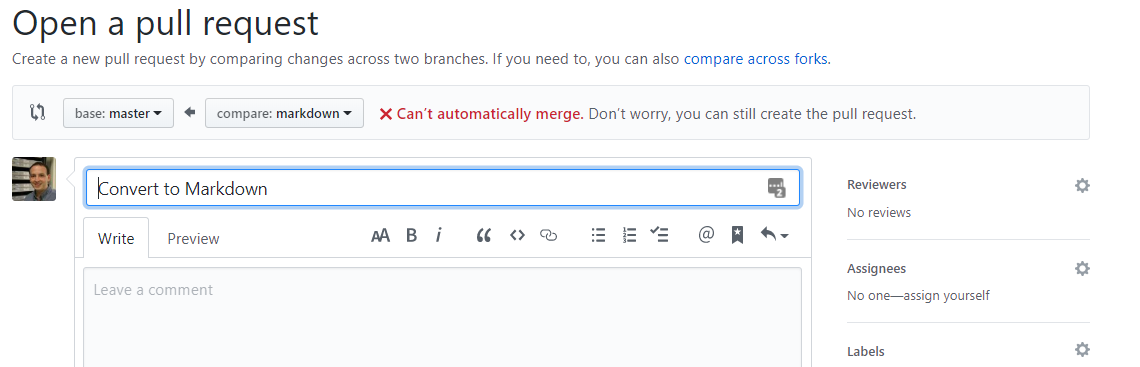
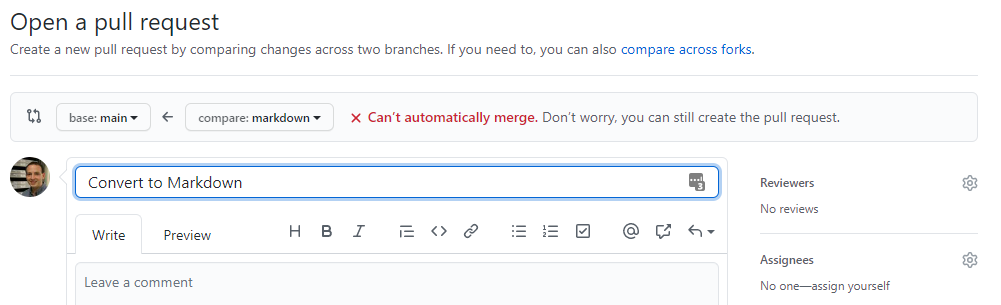
Update for Oct 2020

diff --git a/Hands-on2.md b/Hands-on2.md
@@ -48,7 +48,7 @@ Git can tell us about the status of the files in a repo:
 
 ```bash
 [magitz@login2 planets]$ git status
-# On branch master
+# On branch main
 # Untracked files:
 #   (use "git add <file>..." to include in what will be committed)
 #
@@ -62,7 +62,7 @@ Git is also often helpful with suggesting commands. It found the untracked file 
 ```bash
 [magitz@login2 planets]$ git add mars.txt
 [magitz@login2 planets]$ git status
-# On branch master
+# On branch main
 # Changes to be committed:
 #   (use "git reset HEAD <file>..." to unstage)
 #
@@ -84,19 +84,19 @@ Now let's commit the changes and check the status again. When we commit changes,
 
 ```bash
 [magitz@login2 planets]$ git commit -m "Start notes on Mars as a base"
-[master ea083bf] Start notes on Mars as a base
+[main ea083bf] Start notes on Mars as a base
  1 file changed, 2 insertions(+)
  create mode 100644 mars.txt
 [magitz@login2 planets]$ git status
-# On branch master
-# Your branch is ahead of 'origin/master' by 1 commit.
+# On branch main
+# Your branch is ahead of 'origin/main' by 1 commit.
 #   (use "git push" to publish your local commits)
 #
 nothing to commit, working directory clean
 [magitz@login2 planets]$
 ```
 
-You can see that the commit shows a summary of the commit. We changed 1 file and added 2 lines--in my case anyway, I added a blank line after the line of text. `git status` shows that we are 1 commit ahead of the origin/master. And git again gives us helpful information about a command we might want to run: `git push`. Let's run that:
+You can see that the commit shows a summary of the commit. We changed 1 file and added 2 lines--in my case anyway, I added a blank line after the line of text. `git status` shows that we are 1 commit ahead of the origin/main. And git again gives us helpful information about a command we might want to run: `git push`. Let's run that:
 
 ```bash
 [magitz@login2 planets]$ git push
@@ -106,7 +106,7 @@ Compressing objects: 100% (3/3), done.
 Writing objects: 100% (3/3), 343 bytes | 0 bytes/s, done.
 Total 3 (delta 0), reused 0 (delta 0)
 To git@github.com:magitz/planets.git
-   2e264b1..ea083bf  master -> master
+   2e264b1..ea083bf  main -> main
 [magitz@login2 planets]$
 ```
 
@@ -117,7 +117,7 @@ Lastly, if we run `git status` again, we will see we are all in sync with nothin
 
 ```bash
 [magitz@login2 planets]$ git status
-# On branch master
+# On branch main
 nothing to commit, working directory clean
 [magitz@login2 planets]$
 ```
@@ -128,11 +128,12 @@ Let's add another line of text to the `mars.txt` file. Edit the file so that it 
 > Cold and dry, but everything is my favorite color
 
 > The two moons may be a problem for Wolfman
+
 Then run `git status` and the new command, `git diff`:
 
 ```bash
 [magitz@login2 planets]$ git status
-# On branch master
+# On branch main
 # Changes not staged for commit:
 #   (use "git add <file>..." to update what will be committed)
 #   (use "git checkout -- <file>..." to discard changes in working directory)
@@ -161,7 +162,7 @@ Add, commit and push the changes:
 ```bash
 [magitz@login2 planets]$ git add mars.txt
 [magitz@login2 planets]$ git commit -m "Add concerns about effects of Mars' moons on Wolfman"
-[master 2fbbb5b] Add concerns about effects of Mars' moons on Wolfman
+[main 2fbbb5b] Add concerns about effects of Mars' moons on Wolfman
  1 file changed, 1 insertion(+)
 [magitz@login2 planets]$ git push
 Counting objects: 5, done.
@@ -170,7 +171,7 @@ Compressing objects: 100% (3/3), done.
 Writing objects: 100% (3/3), 390 bytes | 0 bytes/s, done.
 Total 3 (delta 0), reused 0 (delta 0)
 To git@github.com:magitz/planets.git
-   ea083bf..2fbbb5b  master -> master
+   ea083bf..2fbbb5b  main -> main
 [magitz@login2 planets]$
 
 ```

diff --git a/Hands-on3.md b/Hands-on3.md
@@ -61,7 +61,7 @@ nothing to commit, working directory clean
 [magitz@login2 planets]$
 ```
 
-Notice that I am on branch markdown, not master.
+Notice that I am on branch markdown, not main.
 
 Go ahead and edit the `mars.txt` file.
 
@@ -142,26 +142,26 @@ Go back to github.com and reload the repo. You will see that there is a notifica
 
 Click on the `mars.txt` file. What does it look like?
 
-We are viewing the master branch. Everything is there and just as we left it. If we want to see the markdown branch, we can select that from the pull down:
+We are viewing the main branch. Everything is there and just as we left it. If we want to see the markdown branch, we can select that from the pull down:
 ![Screenshot of changing branches](images/git_change_branch.png)
 
-### Change master branch
+### Change main branch
 
-We realize that we want to get rid of our ill considered change. But aren't done moving our content to Markdown. That's fine. We can still edit the master branch too. Check out the master branch (`git checkout master`), make the change (deleting the last line "`An ill-considered change`"), add the file, commit the change and push it to github.
+We realize that we want to get rid of our ill considered change. But aren't done moving our content to Markdown. That's fine. We can still edit the main branch too. Check out the main branch (`git checkout main`), make the change (deleting the last line "`An ill-considered change`"), add the file, commit the change and push it to github.
 
 ### Merge the branch
 
-Now we decide that we are ready to merge our markdown branch into the master--effectively replace the old version with the new version.
+Now we decide that we are ready to merge our markdown branch into the main--effectively replace the old version with the new version.
 
 Go back to the main page of repo on github and this time, click the "Compare and pull request" button.
 
 ![Screenshot of changing branches](images/git_change_branch.png)
 
-On the page that comes up, we are opening a pull request--a request to pull the changes one the markdown branch into the master branch.
+On the page that comes up, we are opening a pull request--a request to pull the changes one the markdown branch into the main branch.
 
 ![Screenshot of pull request](images/git_pull_request.png)
 
-Also notice that github is showing that the request Can't be automatically merged. That is because there have been changes made on both the master and markdown branch since the two diverged (when me created the markdown branch). If we hadn't made the change on the master brach above, github would be able to automatically merge the request. But now we need to do some human intervention to sort out the conflicts.
+Also notice that github is showing that the request Can't be automatically merged. That is because there have been changes made on both the main and markdown branch since the two diverged (when me created the markdown branch). If we hadn't made the change on the main brach above, github would be able to automatically merge the request. But now we need to do some human intervention to sort out the conflicts.
 
 Go ahead and click the "Create Pull Request" button. That pulls up the information about the conflicts that need to be resolved:
 
@@ -193,6 +193,6 @@ Here are the steps we worked through:
 * Push the changes to the remote repo (github.com)
 * Make a branch for development, testing or other work
 * Make changes on the branch
-* Create a pull request to merge the branch back into the master
+* Create a pull request to merge the branch back into the main
 * Resolve conflicts and commit the pull request
 

diff --git a/README.md b/README.md
@@ -54,14 +54,17 @@ Let's call this repo "planets" and leave the rest of the settings with the defau
 
 ![Screenshot of the create repo page](images/git_new_repo_details.png)
 
-Note that I have my account setup for SSH keys, so I clicked the "SSH" button circled in red below. If you have not setup SSK keys and two-factor authentication, you can leave the HTTPS button clicked.
+Note that I have my account setup for using SSH keys, so I clicked the "SSH" button circled in red below. If you have not setup SSK keys and two-factor authentication, you can leave the HTTPS button clicked.
+
+> To learn about setting up your github account to use ssh keys, check out [this github page](https://docs.github.com/en/free-pro-team@latest/github/authenticating-to-github/connecting-to-github-with-ssh) and a [short video with a walk-through](https://web.microsoftstream.com/video/b0e02a2d-f108-44ff-aea2-276d98a8b524).
 
 ![Screen shot of the info to make a new repo](images/git_new_repo_info.png)
 
 At this point, we have a repository, but there isn't anything in it. GitHub provides a number of options about what we can do from here. For this tutorial, I will use the "…or create a new repository on the command line" instructions.
+
 I will do this in my account on HiPerGator, but you could do it on your computer (use the Terminal on Mac or Git Bash on Windows).
 
-1. Log into HiPerGator: `ssh *gatorlink*@hpg.rc.ufl.edu`
+1. Log into HiPerGator: `ssh gatorlink@hpg.rc.ufl.edu` (Replacing `gatorlink` with *your* GatorLink)
 1. Make a directory for this repository: `mkdir planets`
    * It is best if the directory name matches the repository name
 1. Change directories into this new folder: `cd planets`
@@ -71,8 +74,9 @@ I will do this in my account on HiPerGator, but you could do it on your computer
       * `git init` Tells git that this is a git repository and creates all the infrastructure to treat it as such.
       * `git add README.md` Places the README.md file in the staging area and tells git to track changes to this file.
       * `git commit -m "first commit"` Commits the changes to the local repo. This records the changes and sets a point in history that can be recovered.
-      * `git remote add origin git@github.com:*magitz*/planets.git` This connects the local repo to the one on GitHub that we made to start with. **Note:** My github username is *magitz*, you will need to use your username. But that should be set when you copy/paste.
-      * `git push -u origin master` This `push`es our changes to GitHub.
+      * `git branch -M main` Makes sure that the main branch is called `main`. The default in some accounts is still the racially insensitive term 'master'.
+      * `git remote add origin git@github.com:*magitz*/planets.git` This connects the local repo to the one on GitHub that we made to start with. **Note:** My github username is *magitz*, you will need to use your github.com username. But that should be set when you copy/paste.
+      * `git push -u origin main` This `push`es our changes to GitHub.
          * If you have not setup SSH keys, you will be asked for your github.com username and password.
 
 ## Continue on the [Hands-on page 2](Hands-on2.md)
